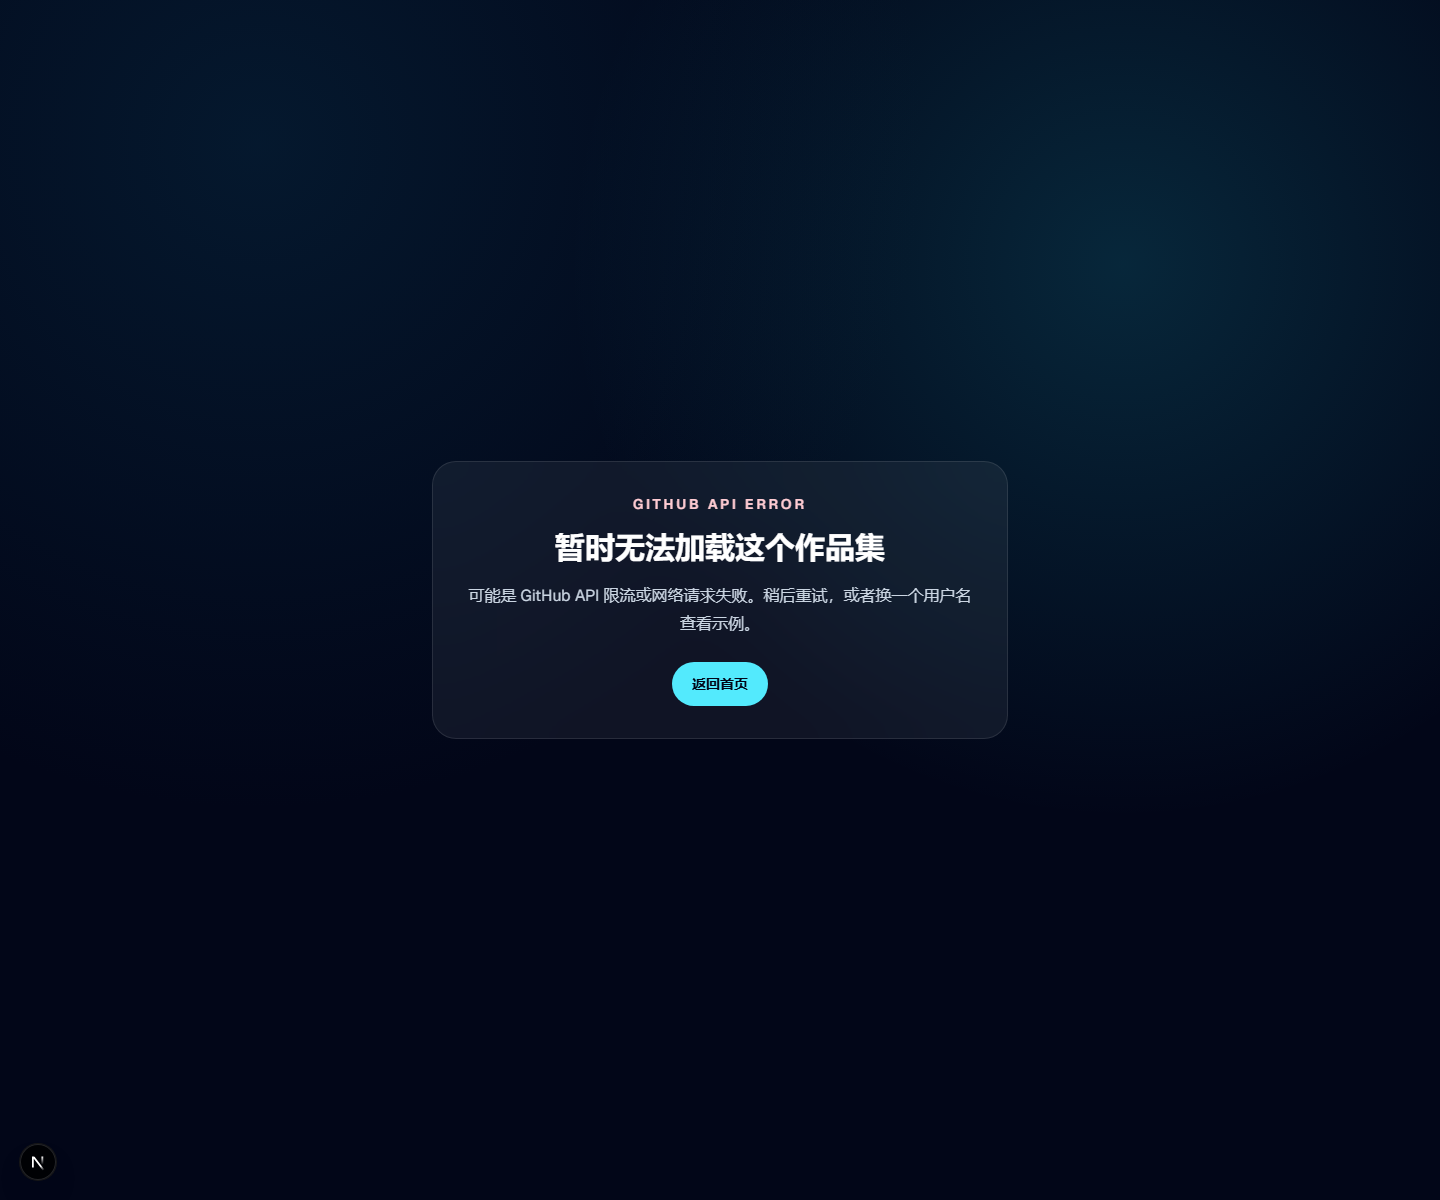
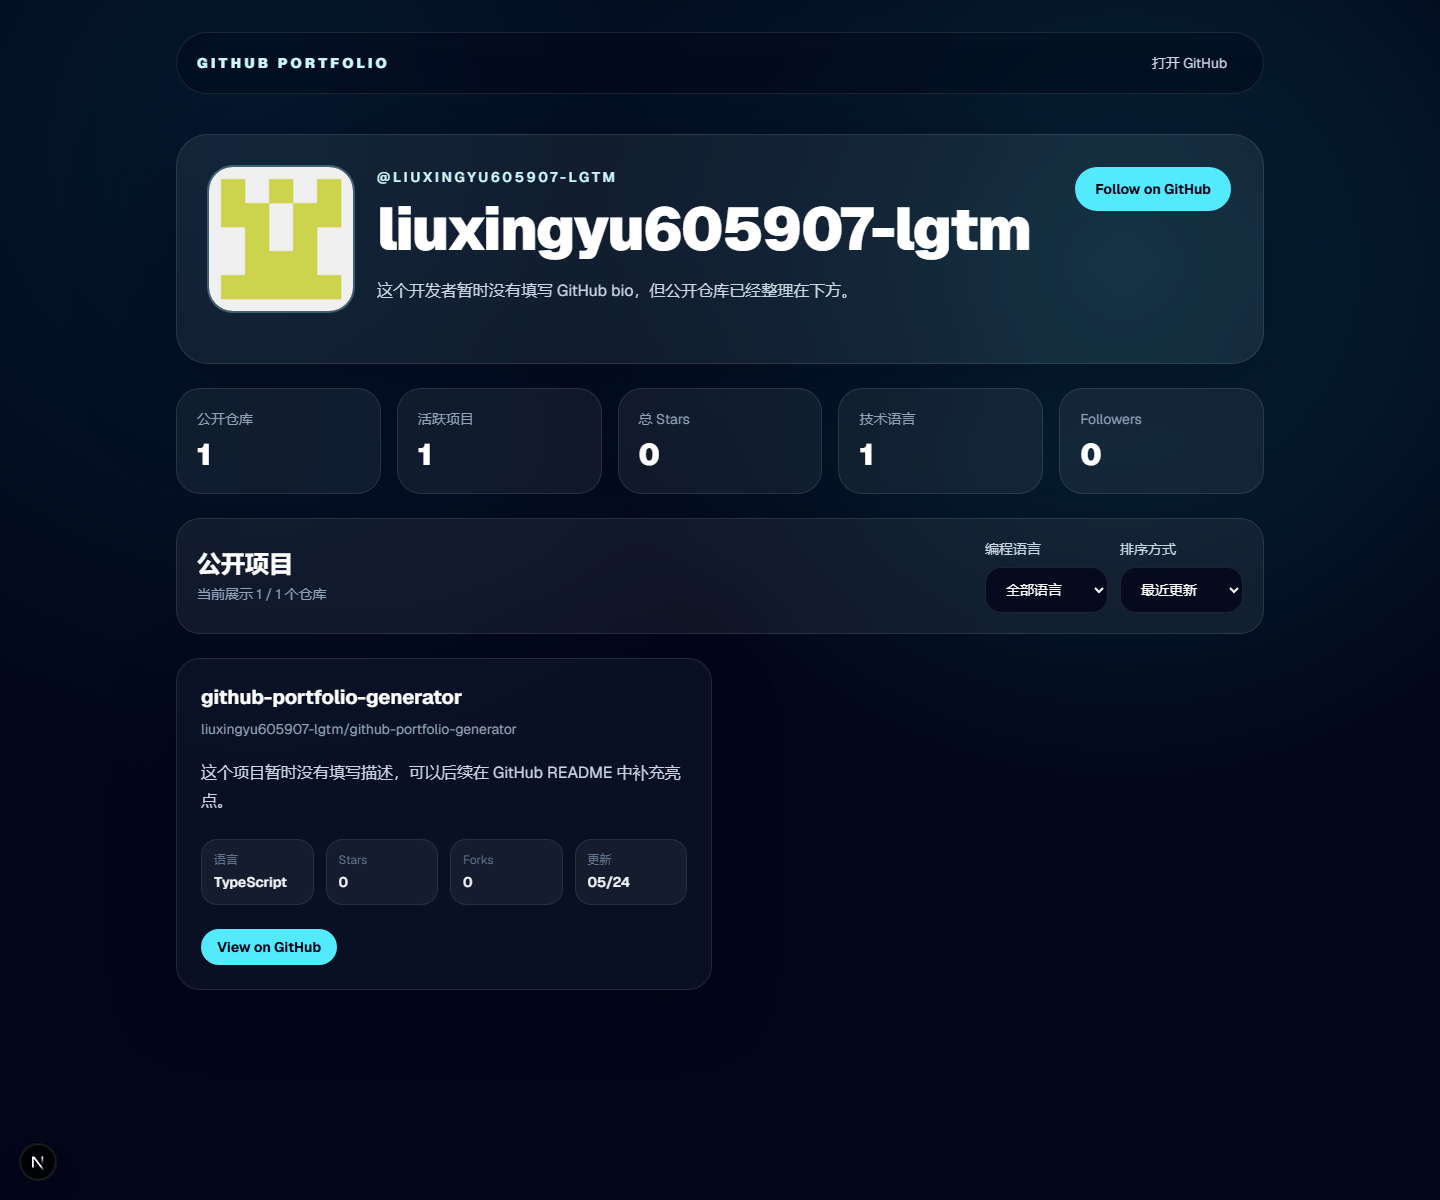
Add GitHub token support

diff --git a/src/lib/github.ts b/src/lib/github.ts
@@ -57,6 +57,7 @@ type GitHubRepoResponse = {
 };
 
 const GITHUB_API_BASE = "https://api.github.com";
+const githubToken = process.env.GITHUB_TOKEN;
 
 export class GitHubApiError extends Error {
   constructor(
@@ -69,11 +70,17 @@ export class GitHubApiError extends Error {
 }
 
 async function githubFetch<T>(path: string): Promise<T> {
+  const headers: HeadersInit = {
+    Accept: "application/vnd.github+json",
+    "X-GitHub-Api-Version": "2022-11-28",
+  };
+
+  if (githubToken) {
+    headers.Authorization = `Bearer ${githubToken}`;
+  }
+
   const response = await fetch(`${GITHUB_API_BASE}${path}`, {
-    headers: {
-      Accept: "application/vnd.github+json",
-      "X-GitHub-Api-Version": "2022-11-28",
-    },
+    headers,
     next: {
       revalidate: 300,
     },

diff --git a/README.md b/README.md
@@ -38,6 +38,14 @@ npm install
 npm run dev
 ```
 
+如果 GitHub API 出现限流，可以在本地新建 `.env.local`：
+
+```text
+GITHUB_TOKEN=你的 GitHub token
+```
+
+这个变量只在服务端请求 GitHub API 时使用，不要提交到 GitHub。
+
 打开浏览器访问：
 
 ```text